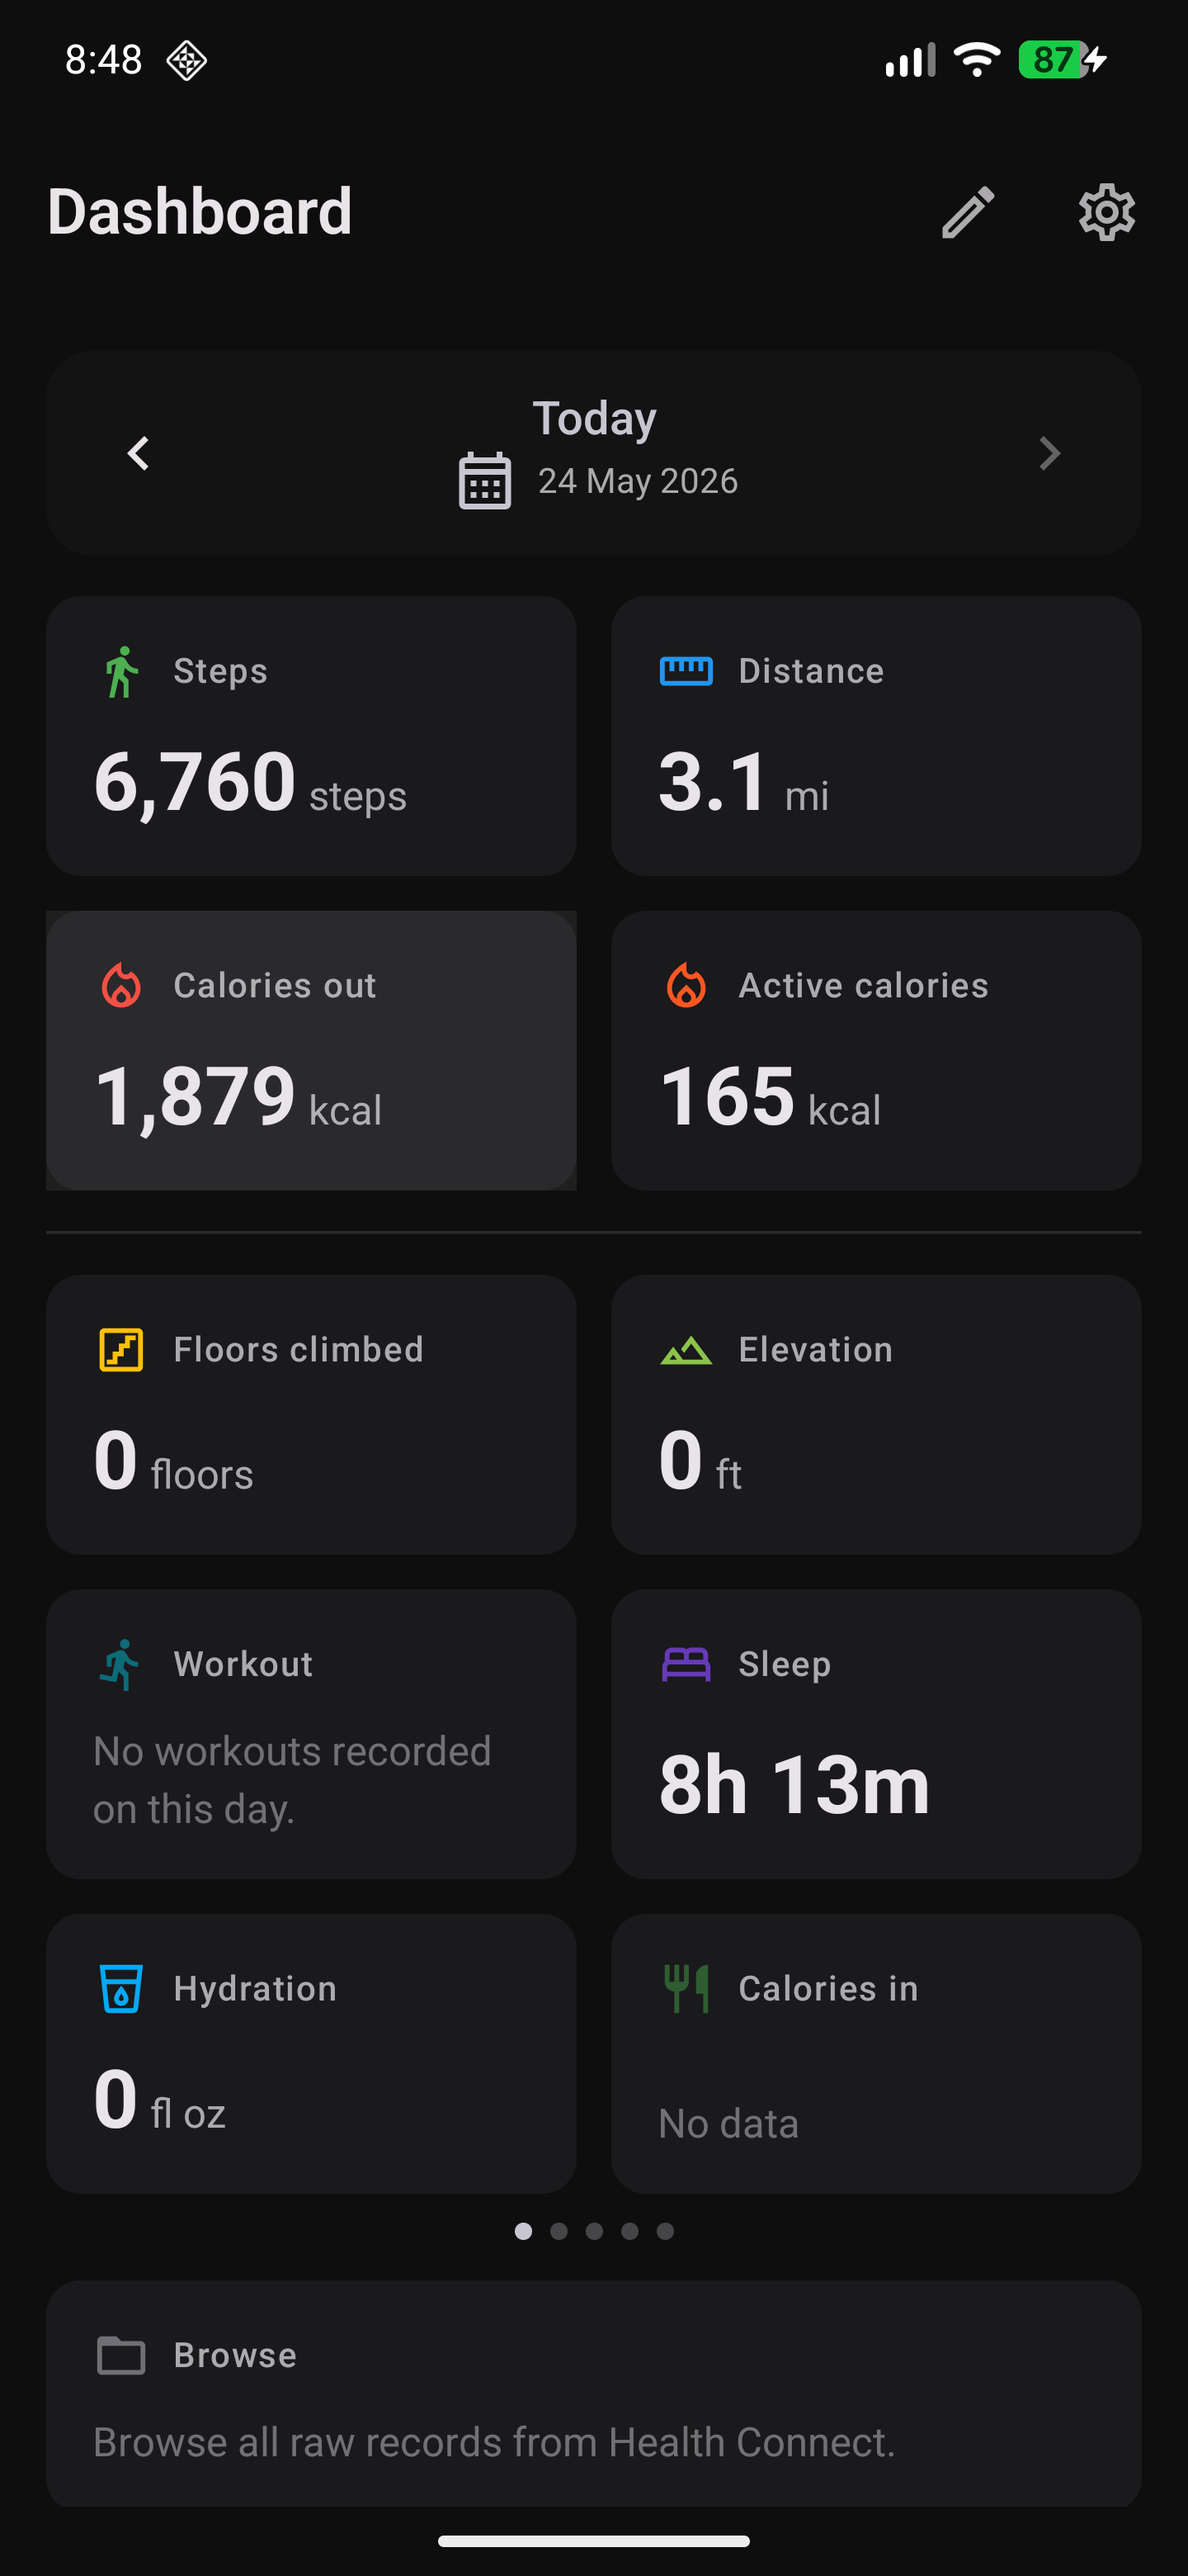
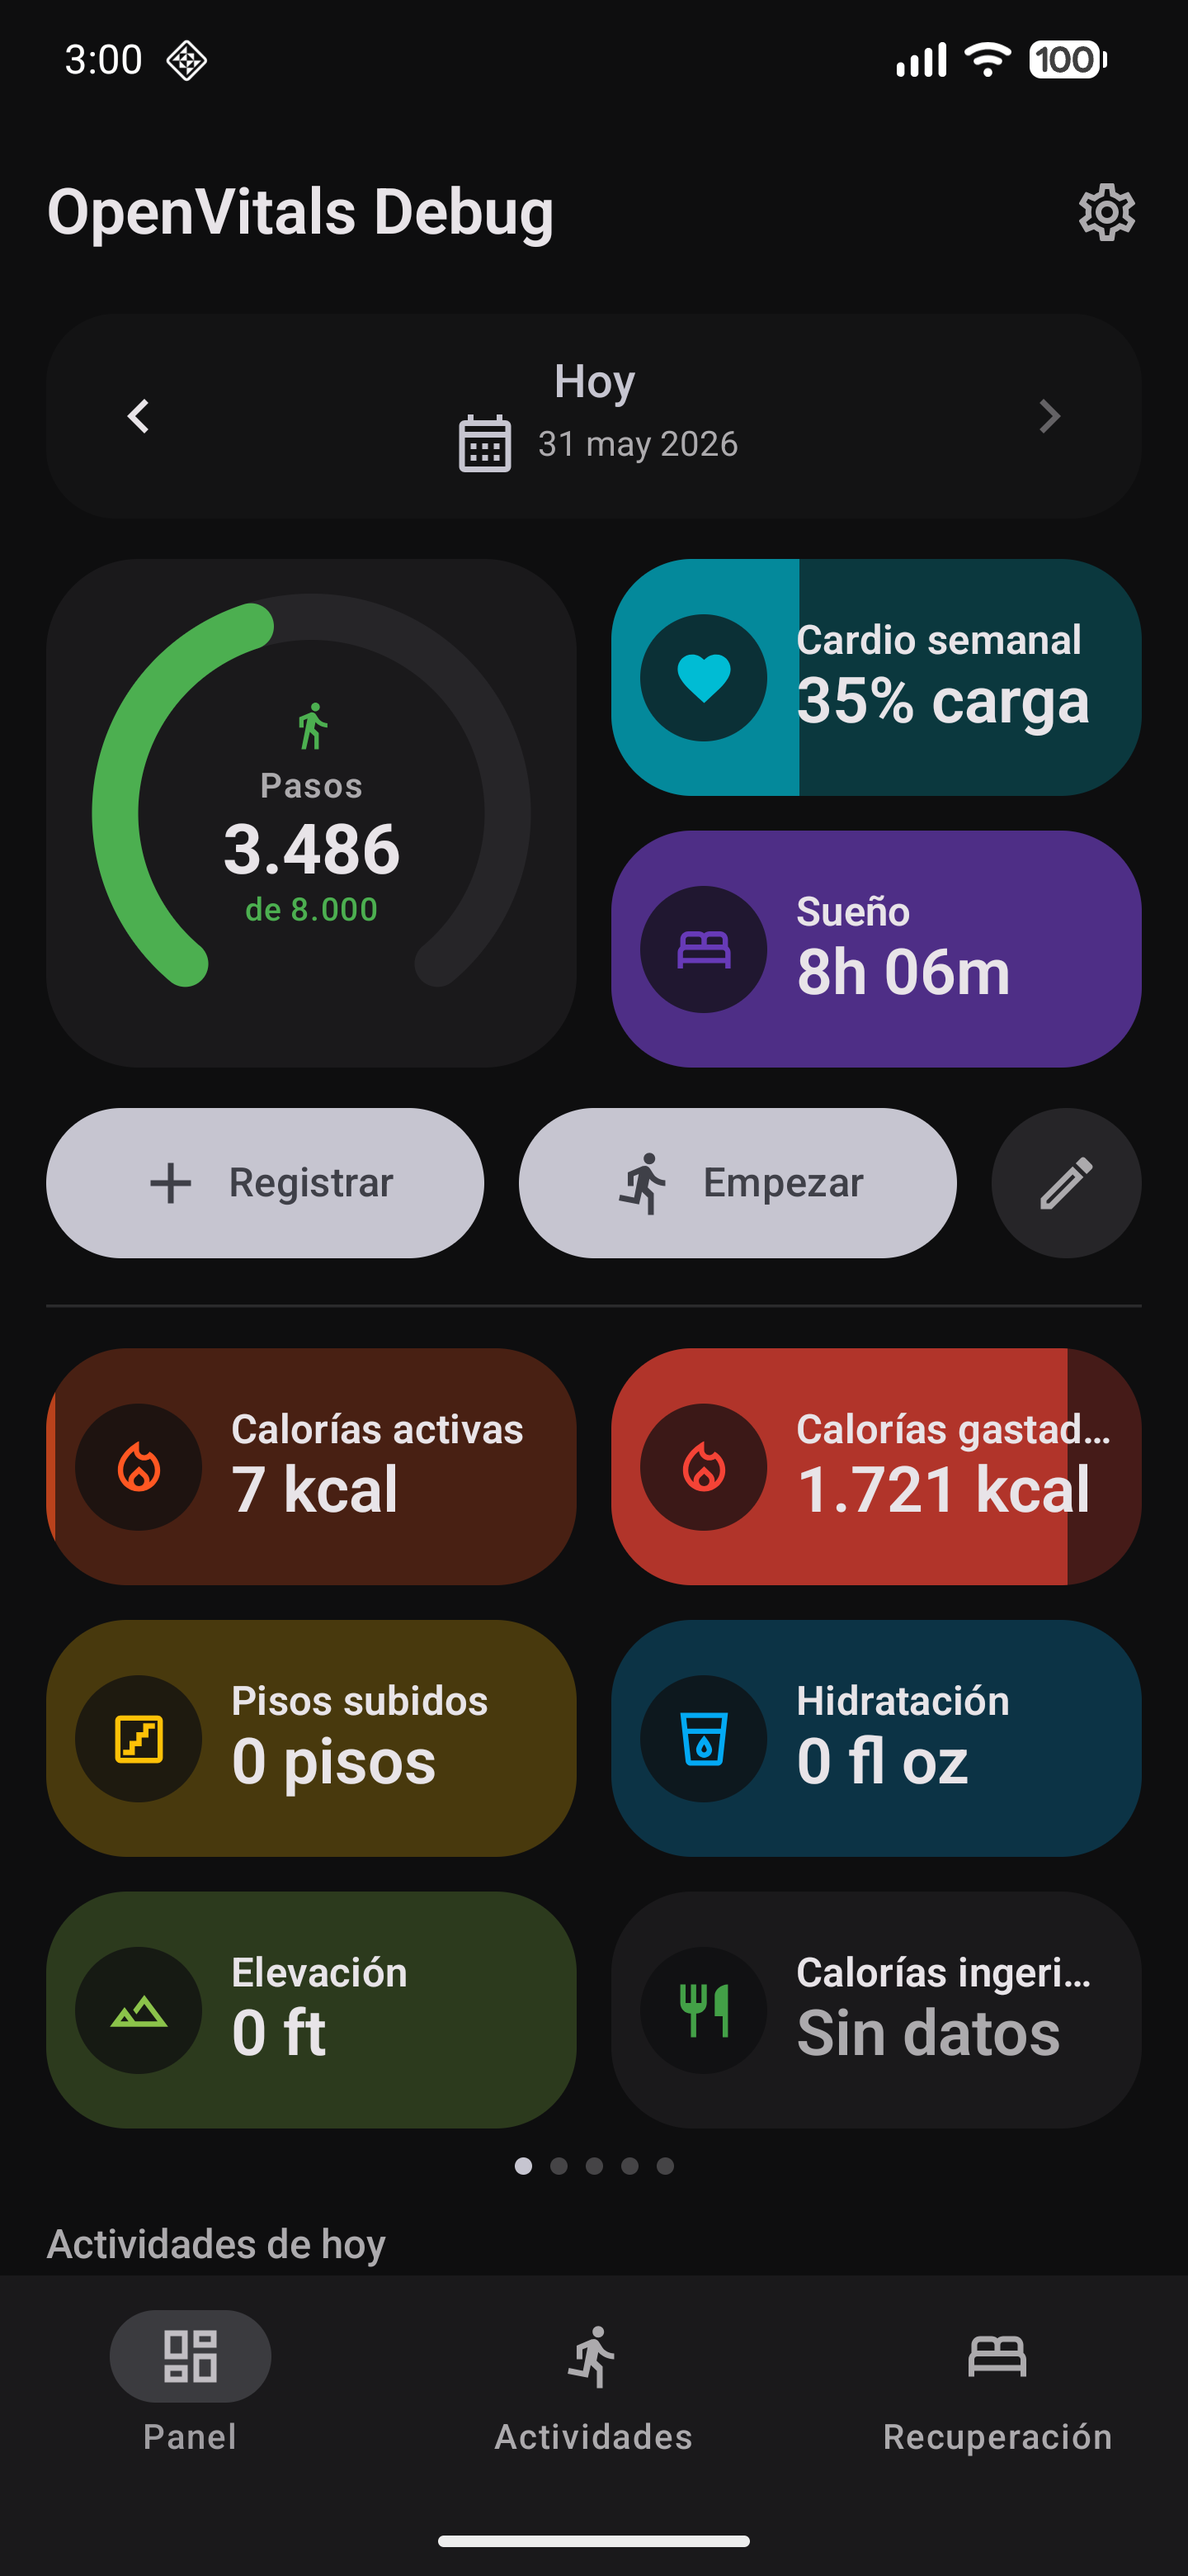
update screenshots

diff --git a/docs/app/screenshots.md b/docs/app/screenshots.md
@@ -13,8 +13,33 @@
 </figure>
 
 <figure markdown="1">
-![Sleep screen](../assets/images/sleep.png){ .app-screenshot }
-<figcaption>Sleep screen</figcaption>
+![Activity entry options](../assets/images/activity-entry.png){ .app-screenshot }
+<figcaption>Activity entry</figcaption>
+</figure>
+
+<figure markdown="1">
+![Metric entry grid](../assets/images/metric-entry-grid.png){ .app-screenshot }
+<figcaption>Metric entry grid</figcaption>
+</figure>
+
+<figure markdown="1">
+![Activities list](../assets/images/activities.png){ .app-screenshot }
+<figcaption>Activities</figcaption>
+</figure>
+
+<figure markdown="1">
+![Recovery dashboard](../assets/images/recovery.png){ .app-screenshot }
+<figcaption>Recovery</figcaption>
+</figure>
+
+<figure markdown="1">
+![Hydration entry](../assets/images/hydration-entry.png){ .app-screenshot }
+<figcaption>Hydration entry</figcaption>
+</figure>
+
+<figure markdown="1">
+![Mindfulness entry](../assets/images/mindfulness-entry.png){ .app-screenshot }
+<figcaption>Mindfulness entry</figcaption>
 </figure>
 
 </div>
